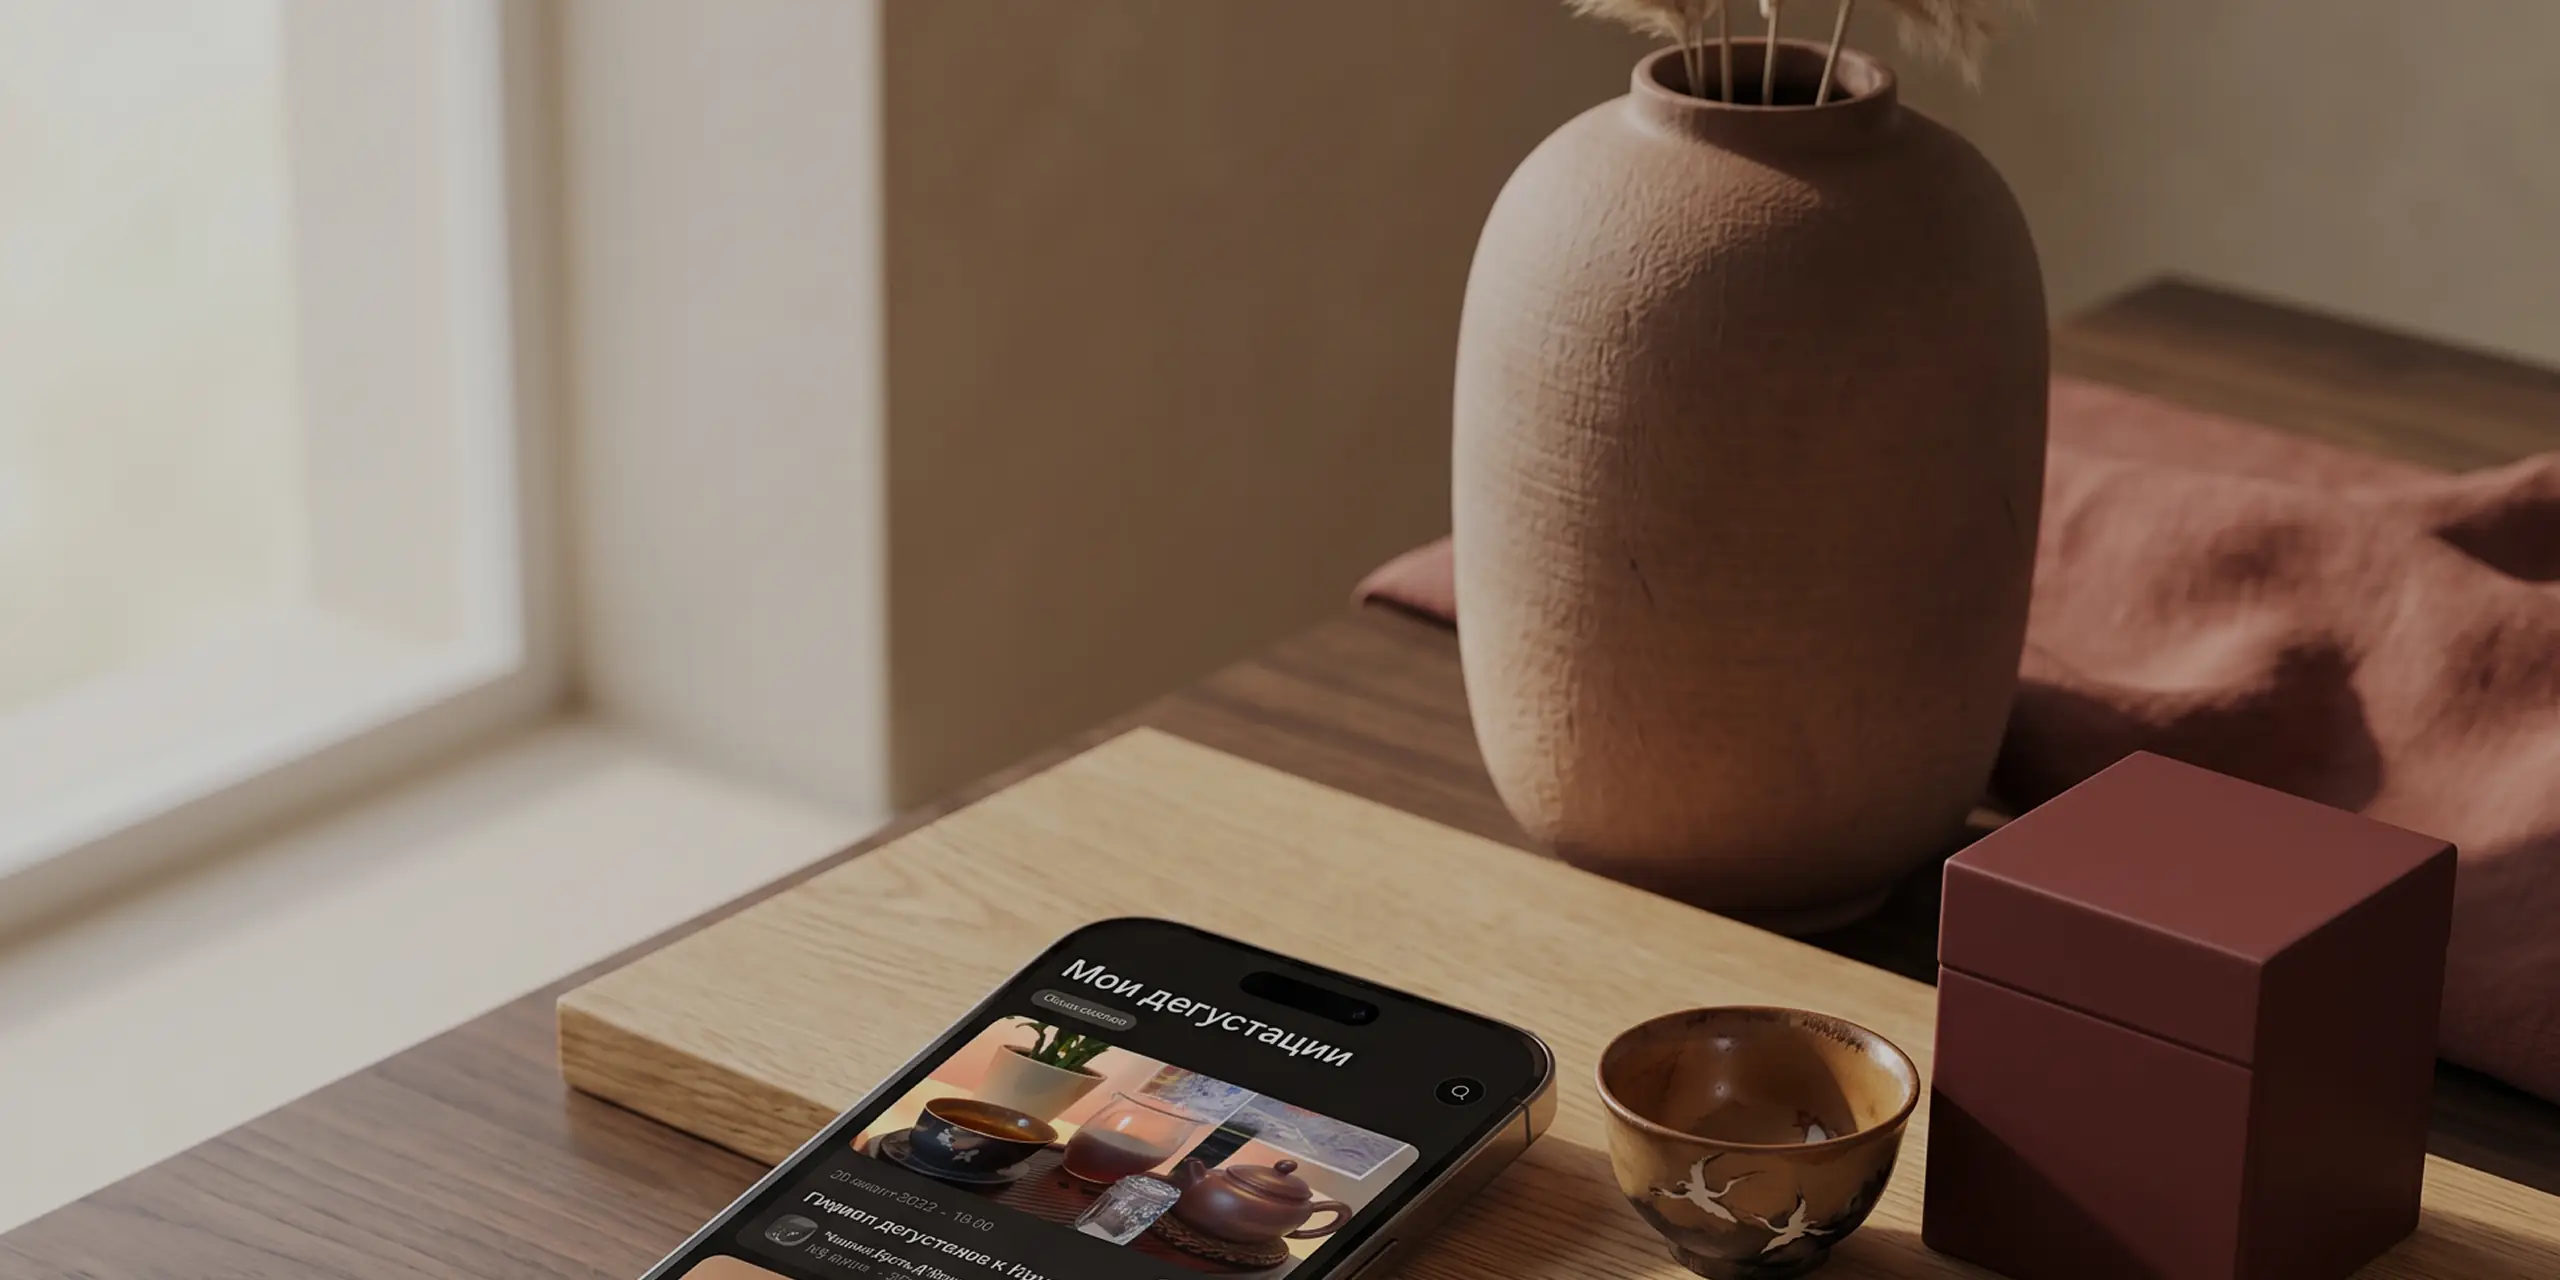
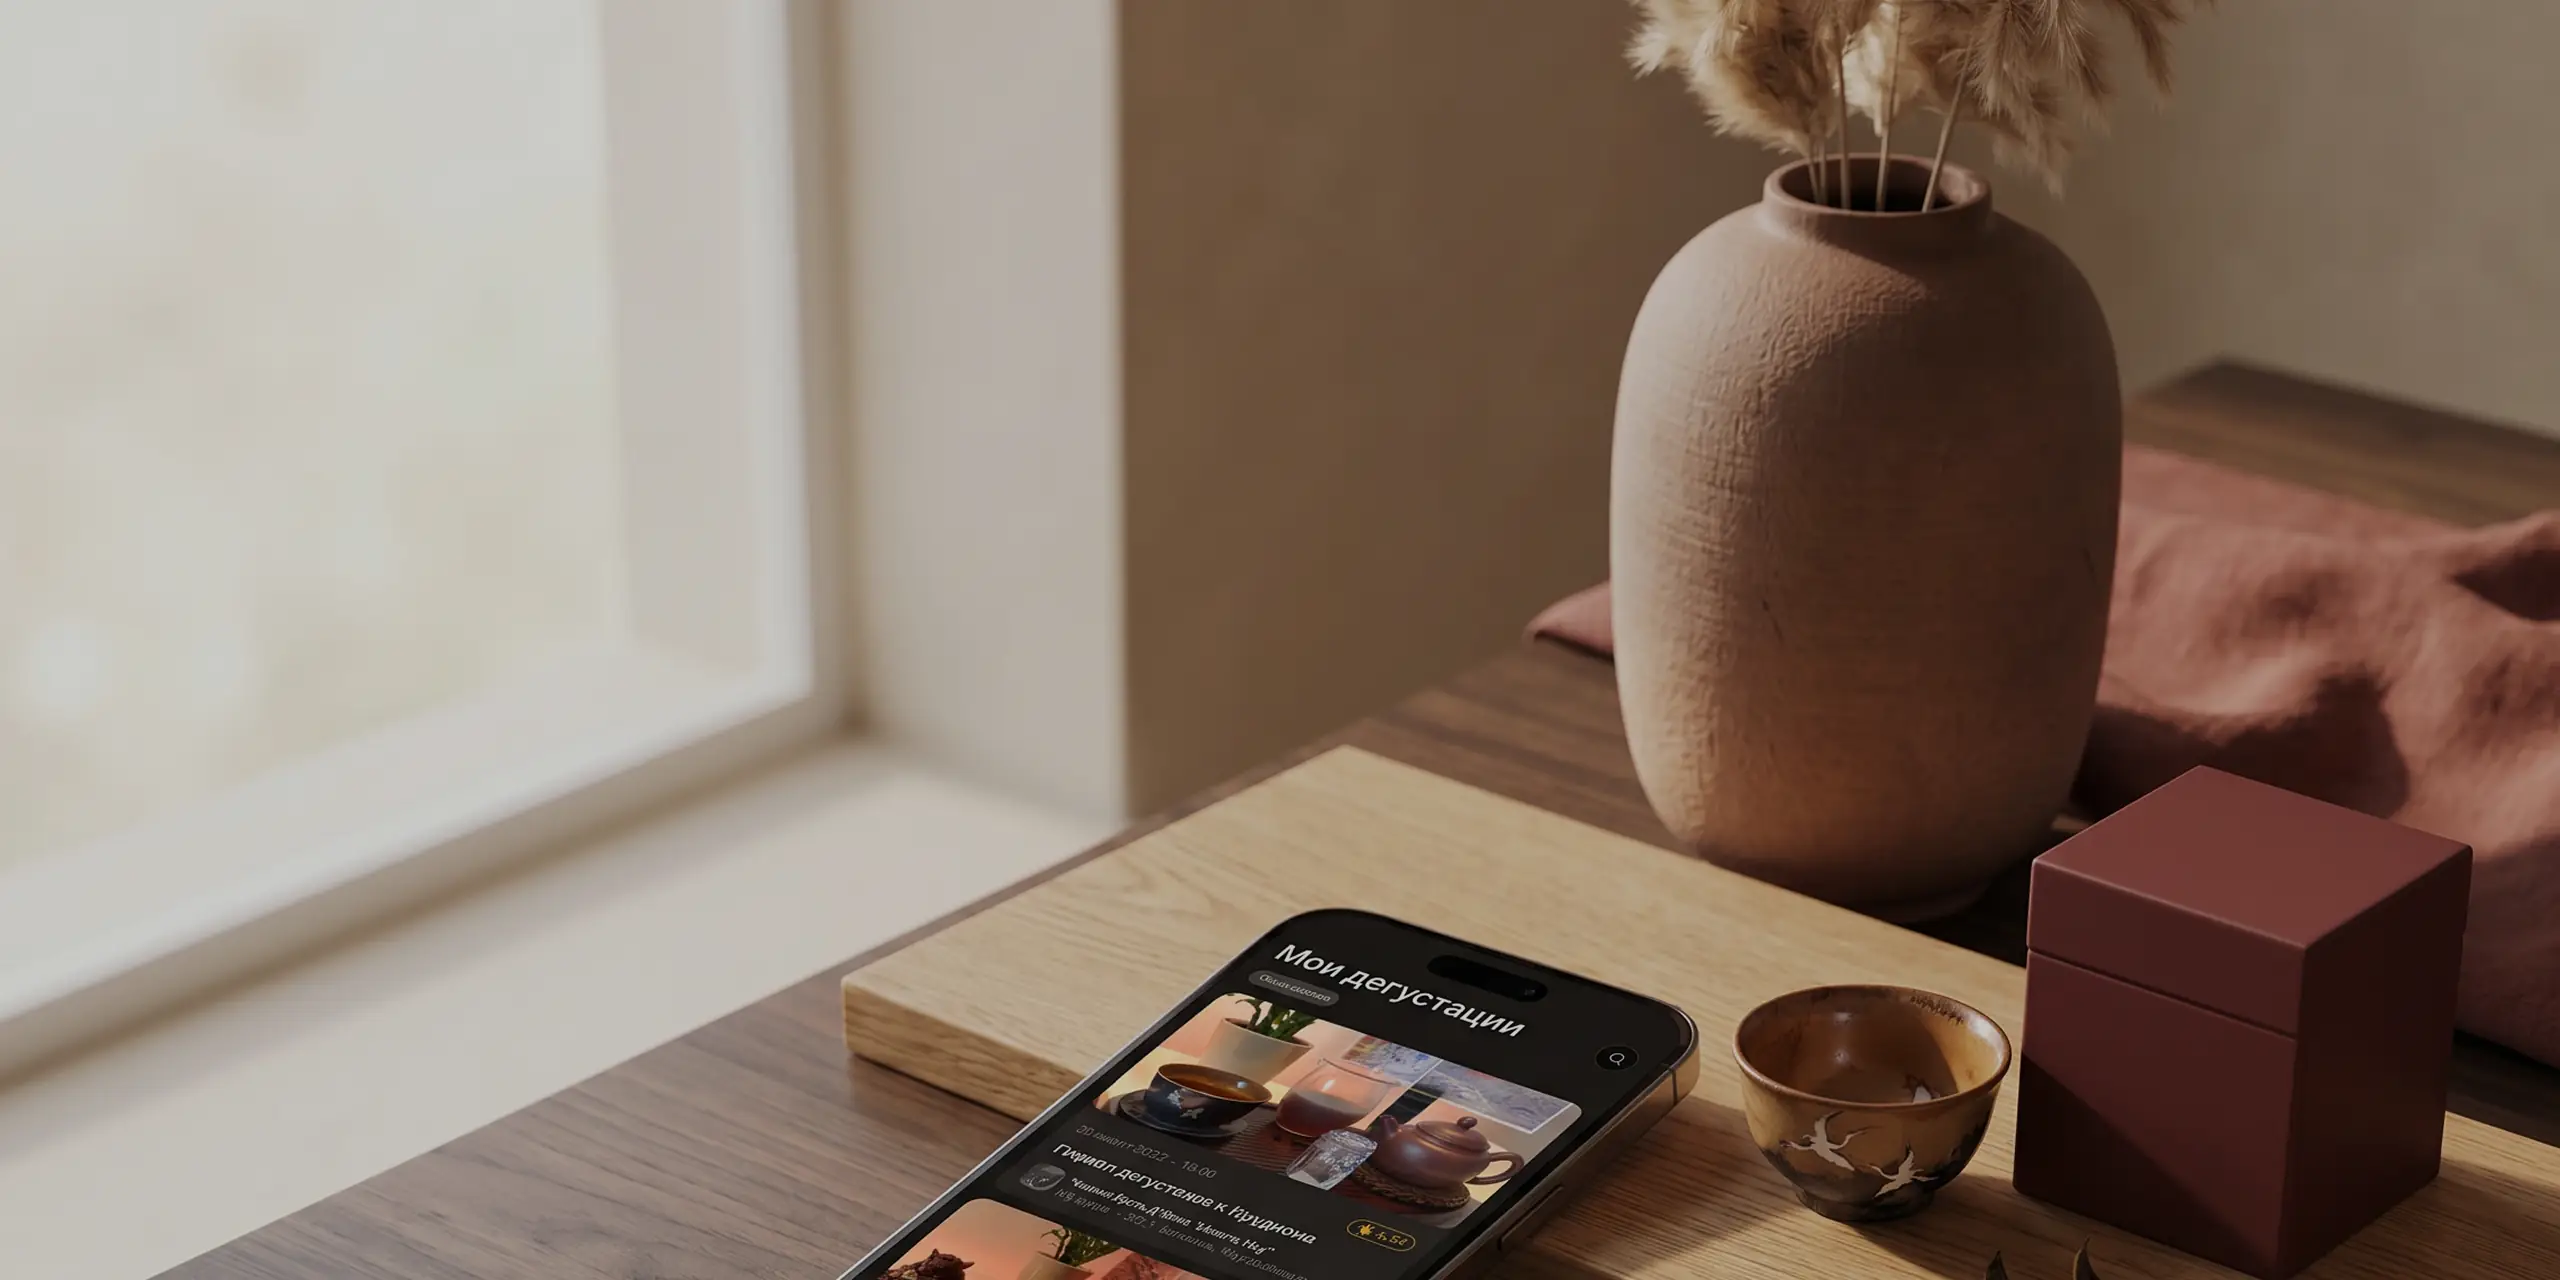
feat(лендинг): хиро-кадры под 6 ступеней ширины (+1024 и 1920)
Кадр берётся «ближайший снизу» к ширине окна: ≤640 вертикальный 390,
дальше 768 / 1024 (новый) / 1280 / 1440 (обновлённое кадрирование) /
1920 (новый, для 1921+). Все — WebP 50–75КБ, метаданные вычищены.

diff --git a/frontend/components/landing/LandingPage.tsx b/frontend/components/landing/LandingPage.tsx
@@ -39,9 +39,13 @@ export default function LandingPage() {
 function Hero() {
   return (
     <section className="relative h-[640px] overflow-hidden bg-[#bfa78b]">
+      {/* Кадр — «ближайший снизу» к ширине окна: композиция соответствует
+          той ширине, под которую кадрирована. ≤640 — вертикальный кадр 390. */}
       <picture>
+        <source media="(min-width: 1921px)" srcSet="/landing/hero-1920.webp" />
         <source media="(min-width: 1441px)" srcSet="/landing/hero-1440.webp" />
-        <source media="(min-width: 1025px)" srcSet="/landing/hero-1280.webp" />
+        <source media="(min-width: 1281px)" srcSet="/landing/hero-1280.webp" />
+        <source media="(min-width: 1025px)" srcSet="/landing/hero-1024.webp" />
         <source media="(min-width: 641px)" srcSet="/landing/hero-768.webp" />
         <img src="/landing/hero-390.webp" alt="" className="absolute inset-0 h-full w-full object-cover" />
       </picture>